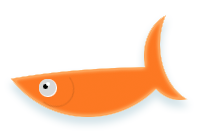
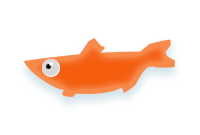
Not logged in: - Fish
Logged in 
- smaller  size
- no logo
- school of fishes

diff --git a/muikku/src/main/webapp/resources/theme-muikku/sass/screen.scss b/muikku/src/main/webapp/resources/theme-muikku/sass/screen.scss
@@ -219,19 +219,10 @@ div[class*="dock-navi-tt-container"] {
   #headerContainer {
     position:relative; 
   
-    #headerLogoTextContainer {
-      position:absolute;
-      left:-20px;
-      top:10px;
-      @include background-image('gfx/muikku-header-text.png');
-      background-repeat:no-repeat; 
-      height:115px;
-      width:380px;
-    }
         
     #headerFishContainer {
       position:absolute;
-      left:330px;
+      left:430px;
       top:10px;
       @include background-image('gfx/muikku-header-fishes.png');
       background-repeat:no-repeat; 
